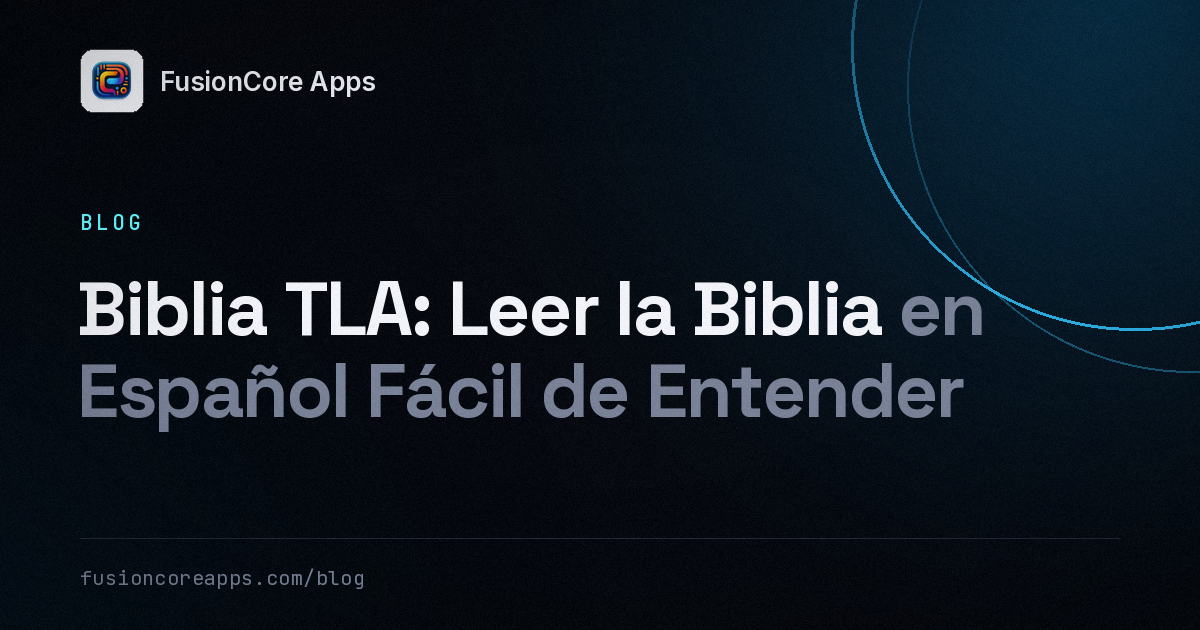
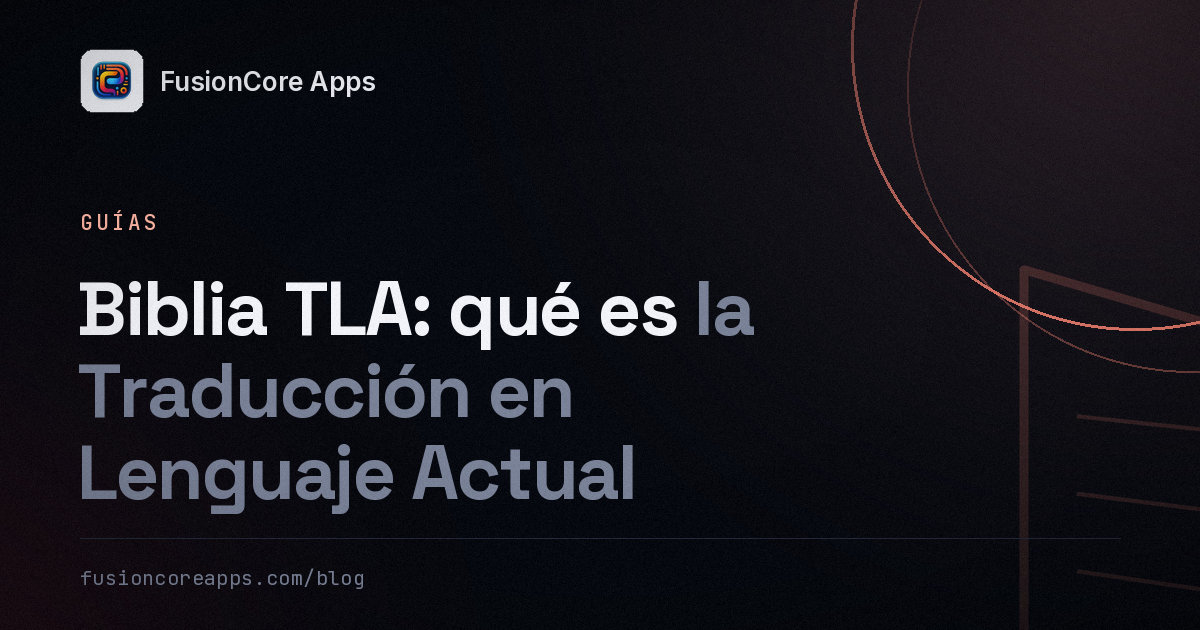
feat(blog): add how-to-start-reading-the-bible guide and refresh Biblia TLA guide

diff --git a/src/content/blog/es/biblia-tla-espanol-facil-guia.md b/src/content/blog/es/biblia-tla-espanol-facil-guia.md
@@ -1,43 +1,121 @@
 ---
-title: "Biblia TLA: Leer la Biblia en Español Fácil de Entender"
-description: "La Biblia TLA (Traducción en Lenguaje Actual) hace que leer las Escrituras sea accesible para todos. Descubre por qué es perfecta para nuevos lectores."
+title: "Biblia TLA: qué es la Traducción en Lenguaje Actual"
+description: "Qué es la Biblia TLA, quién la tradujo y para quién es, con versículos comparados con la Reina-Valera 1960 y una tabla frente a la NTV, DHH y NVI."
 publishedAt: "2026-03-01"
+updatedAt: "2026-10-16"
 author: "FusionCore Apps"
-tags: ["biblia", "español", "apps", "android"]
-image: "/images/blog/biblia-tla-espanol-facil-guia.png"
+tags: ["biblia", "biblia tla", "español", "leer la biblia", "versiones de la biblia"]
+image: "/images/blog/es/biblia-tla-espanol-facil-guia/cover.webp"
 ogImage: "/images/blog/es/biblia-tla-espanol-facil-guia.png"
 featured: false
+faq:
+  - question: "¿Qué significa TLA en la Biblia?"
+    answer: "TLA son las siglas de Traducción en Lenguaje Actual, una versión de la Biblia en español publicada por las Sociedades Bíblicas Unidas. Está escrita con palabras de uso diario y frases cortas para que cualquier persona la entienda a la primera."
+  - question: "¿La Biblia TLA es confiable?"
+    answer: "Sí. Se tradujo directamente de los idiomas originales (hebreo, arameo y griego) y la publican las Sociedades Bíblicas Unidas, que también publican la Reina-Valera 1960. Es una traducción por equivalencia dinámica: busca transmitir el sentido de cada pasaje más que la palabra exacta, por eso para un estudio detallado conviene compararla con una versión más literal."
+  - question: "¿Cuál es la diferencia entre la TLA y la Reina-Valera 1960?"
+    answer: "La Reina-Valera 1960 es una traducción formal, cercana a la palabra por palabra, con vocabulario tradicional como «bienaventurados» o «vosotros». La TLA dice lo mismo con palabras de hoy: donde la Reina-Valera dice «Bienaventurados los mansos», la TLA dice «Dios bendice a los humildes»."
+  - question: "¿La Biblia TLA sirve para estudiar?"
+    answer: "Sirve para entender el sentido general de un libro o de un pasaje, y es muy buena para devocionales y para leer en grupo. Para estudiar palabras concretas o preparar una enseñanza, úsala junto a una versión literal como la Reina-Valera 1960 o la NBLA."
+  - question: "¿Dónde puedo leer la Biblia TLA gratis?"
+    answer: "En el celular puedes usar Biblia TLA en Español Fácil, una app gratuita para Android con la TLA completa, audio y lectura sin internet. También está disponible en varios sitios de Biblias en línea."
 ---
 
-## ¿Qué es la Traducción en Lenguaje Actual?
+La **Biblia TLA** (Traducción en Lenguaje Actual) es una versión de la Biblia en español publicada por las **Sociedades Bíblicas Unidas** y escrita con **palabras de todos los días, frases cortas y sin términos antiguos**. Empezó como una Biblia para niños y hoy la leen adultos que se pierden con la Reina-Valera, jóvenes y personas que abren la Biblia por primera vez.
+
+**En esta guía:**
+
+- [Qué es la Traducción en Lenguaje Actual](#qué-es-la-traducción-en-lenguaje-actual)
+- [Cómo se tradujo: escrita para leerse en voz alta](#cómo-se-tradujo-escrita-para-leerse-en-voz-alta)
+- [La TLA frente a la Reina-Valera 1960, con ejemplos](#la-tla-frente-a-la-reina-valera-1960)
+- [TLA, NTV, DHH, NVI, RVR1960 o NBLA: cuál elegir](#tla-ntv-dhh-nvi-rvr1960-o-nbla-cuál-elegir)
+- [Ventajas y límites de la TLA](#ventajas-y-límites-de-la-tla)
+- [Cómo leer la Biblia TLA en el celular](#la-app-biblia-tla-para-android)
+
+## Qué es la Traducción en Lenguaje Actual
 
 La Traducción en Lenguaje Actual (TLA) es una versión de la Biblia escrita en español claro, sencillo y contemporáneo. A diferencia de traducciones más tradicionales como la Reina-Valera, que utiliza un lenguaje formal y en ocasiones arcaico, la TLA fue diseñada para que cualquier persona pueda entender el mensaje bíblico sin necesidad de un diccionario teológico.
 
-Esta traducción es especialmente valiosa para tres grupos de lectores: personas que se acercan a la Biblia por primera vez, jóvenes que buscan una conexión más directa con el texto, y hablantes nativos de español que prefieren un lenguaje cotidiano y accesible.
+El proyecto nació como una Biblia para lectores de entre 9 y 11 años. Según Edesio Sánchez, consultor de traducción de las Sociedades Bíblicas Unidas, el equipo la pensó como **«una Biblia para niños y no una Biblia de niños»**: no simplifica el mensaje, sino la forma de decirlo. También tuvo en cuenta a adultos que leen poco y a comunidades indígenas que hablan el español como segunda lengua.
 
-## ¿Por Qué Elegir la TLA Sobre Otras Traducciones?
+Por eso es especialmente valiosa para tres grupos de lectores: personas que se acercan a la Biblia por primera vez, jóvenes que buscan una conexión más directa con el texto, y hablantes de español que prefieren un lenguaje cotidiano y accesible.
 
-Cada traducción de la Biblia tiene su propósito. Las traducciones literales como la Reina-Valera 1960 son excelentes para el estudio detallado del texto original. Sin embargo, su vocabulario puede resultar difícil para lectores que no están familiarizados con términos religiosos tradicionales.
+## Cómo se tradujo: escrita para leerse en voz alta
 
-La TLA resuelve este problema al expresar las mismas ideas bíblicas usando palabras y frases que usamos en la vida diaria. No simplifica el contenido ni elimina conceptos importantes. Lo que hace es presentar ese contenido de una manera que fluye naturalmente en español moderno.
+La TLA se tradujo directamente del hebreo, el arameo y el griego. Lo que la distingue es que se escribió pensando en **quien la escucha**, no solo en quien la lee: el objetivo era un texto que se entendiera al leerse en voz alta en una iglesia, en familia o en un grupo. Eso se nota en varias decisiones:
 
-Por ejemplo, donde una traducción tradicional podría decir "bienaventurados los mansos," la TLA expresa la misma idea de forma que un lector contemporáneo la entiende inmediatamente, sin perder la profundidad del mensaje original.
+- **Frases cortas.** Los pasajes que en la Reina-Valera son una sola oración larga, como el saludo de Romanos 1:1–7, en la TLA se dividen en varias.
+- **Quién hace qué, siempre claro.** Si un pronombre puede confundir, la TLA nombra a la persona.
+- **Los hechos en orden.** Cuando el texto original cuenta algo fuera de secuencia, la TLA lo ordena para que se siga sin perderse.
+- **Verbos concretos** en lugar de sustantivos abstractos.
+- **El sentido no depende de una coma.** Como al escuchar no se ven los signos de puntuación, la frase se arma para que una pausa mal hecha no cambie el significado.
 
-## La App Biblia TLA para Android
+Estas pautas están explicadas en el artículo de Edesio Sánchez sobre la TLA ([PDF](https://www.bskorea.or.kr/data/pdf/20-%EB%B3%84-01%20The%20TLA%20%28Contemporary%20Spanish%20Version%29%20%28Edesio%20S%C3%A1nchez%29%20n%20doi.pdf)).
 
-Nuestra aplicación Biblia TLA fue creada pensando en la experiencia de lectura diaria. Estas son las características principales:
+## La TLA frente a la Reina-Valera 1960
 
-**Lectura sin distracciones**: La interfaz es limpia y minimalista. No hay anuncios, ventanas emergentes ni elementos que interrumpan tu momento de lectura. Abres la app, eliges un capítulo y comienzas a leer.
+Cada traducción de la Biblia tiene su propósito. Las traducciones literales como la Reina-Valera 1960 son excelentes para el estudio detallado del texto. Sin embargo, su vocabulario puede resultar difícil para lectores que no están familiarizados con términos religiosos tradicionales.
 
-**Modo oscuro**: Para quienes prefieren leer de noche o en ambientes con poca luz, el modo oscuro reduce la fatiga visual y hace que la lectura sea más cómoda durante períodos prolongados.
+La mejor forma de ver la diferencia es leer el mismo pasaje en las dos. Estas son cuatro de las bienaventuranzas (Mateo 5):
 
-**Funciona sin internet**: Todo el texto bíblico se almacena directamente en tu dispositivo. Puedes leer en el metro, en un avión o en cualquier lugar sin preocuparte por la conexión a internet.
+| Reina-Valera 1960 | Traducción en Lenguaje Actual |
+| --- | --- |
+| **5:3** «Bienaventurados los pobres en espíritu, porque de ellos es el reino de los cielos». | «Dios bendice a los que confían totalmente en él, pues ellos forman parte de su reino». |
+| **5:5** «Bienaventurados los mansos, porque ellos recibirán la tierra por heredad». | «Dios bendice a los humildes, pues ellos recibirán la tierra prometida». |
+| **5:6** «Bienaventurados los que tienen hambre y sed de justicia, porque ellos serán saciados». | «Dios bendice a los que desean la justicia, pues él les cumplirá su deseo». |
+| **5:9** «Bienaventurados los pacificadores, porque ellos serán llamados hijos de Dios». | «Dios bendice a los que trabajan para que haya paz en el mundo, pues ellos serán llamados hijos de Dios». |
 
-**Búsqueda rápida**: Encuentra cualquier versículo, palabra o frase en segundos. La función de búsqueda te permite explorar temas específicos y descubrir pasajes relacionados sin esfuerzo.
+Las dos dicen lo mismo. La diferencia es que la TLA **explica las palabras que hoy casi nadie usa**: «bienaventurados» se vuelve «Dios bendice», «pobres en espíritu» se vuelve «los que confían totalmente en él» y «pacificadores» se vuelve «los que trabajan para que haya paz». No simplifica el contenido ni elimina conceptos importantes; lo presenta de una manera que fluye en el español de hoy.
 
-**Marcadores y notas**: Guarda los versículos que más te impactan y agrega tus propias reflexiones. Con el tiempo, construyes una colección personal de pasajes significativos.
+En nuestra [guía para empezar a leer la Biblia](/es/blog/como-empezar-a-leer-la-biblia) comparamos también Juan 3:16, donde la TLA evita la palabra «unigénito».
 
-## Cómo Crear un Hábito de Lectura Bíblica
+## TLA, NTV, DHH, NVI, RVR1960 o NBLA: cuál elegir
+
+Ninguna versión es «la correcta» para todo. La diferencia está en cuánto se acercan a la palabra exacta del original y cuánto priorizan que se entienda el sentido.
+
+| Versión | Tipo de traducción | Lenguaje | Ideal para |
+| --- | --- | --- | --- |
+| **TLA** (Traducción en Lenguaje Actual) | Dinámica: sentido por sentido | El más sencillo | Primeros lectores, niños, devocionales, leer en voz alta |
+| **DHH** (Dios Habla Hoy) | Dinámica | Popular | Lectura general |
+| **NTV** (Nueva Traducción Viviente) | Dinámica | Fluido y actual | Leer libros completos de corrido |
+| **NVI** (Nueva Versión Internacional) | Equilibrio entre literal y dinámica | Actual | Lectura y estudio |
+| **RVR1960** (Reina-Valera 1960) | Formal: palabra por palabra | Tradicional | Estudio, memorización, muchas iglesias evangélicas |
+| **NBLA** (Nueva Biblia de las Américas) | Formal | Moderno | Estudio detallado |
+
+Si tu prioridad es **entender a la primera**, la TLA es la más fácil de las seis. Una combinación que funciona para mucha gente: **la TLA para el devocional diario** y **una versión literal (RVR1960 o NBLA) para estudiar** o seguir la predicación en la iglesia.
+
+¿Llegaste buscando la Biblia TPT (The Passion Translation) en español? Te explicamos [si existe y qué versiones en español tienen un estilo parecido](/es/blog/biblia-tpt-en-espanol).
+
+## Ventajas y límites de la TLA
+
+**Ventajas**
+
+- Se entiende a la primera, incluso si nunca has leído la Biblia.
+- Funciona muy bien leída en voz alta: en familia, con niños o en un grupo.
+- Ayuda a captar la idea de un libro completo sin detenerse en cada palabra.
+
+**Límites**
+
+- Al priorizar el sentido, a veces **explica en lugar de traducir palabra por palabra**. Para estudiar un término concreto, compárala con una versión literal.
+- Muchas iglesias predican con la Reina-Valera 1960, así que puede que el texto que escuchas el domingo no coincida palabra por palabra con el que lees.
+
+## La app Biblia TLA para Android
+
+Creamos [Biblia TLA en Español Fácil](/es/apps/biblia-tla) pensando en la lectura diaria. Estas son sus características principales:
+
+![Pantallas de la app Biblia TLA: lista de libros con la lectura actual y Juan 3 en la Traducción en Lenguaje Actual](/images/blog/es/biblia-tla-espanol-facil-guia/libros-y-lectura.webp)
+
+- **La TLA completa, sin internet.** Todo el texto se guarda en tu teléfono: puedes leer en el metro, en un avión o donde no haya señal.
+- **Audio Biblia** con control de velocidad, para escuchar mientras manejas, caminas o descansas.
+- **Planes de lectura de 14 días** que descargas y sigues día por día.
+- **Versículo del día** como punto de partida para tu lectura.
+- **Resaltados y favoritos** para guardar los versículos que más te impactan.
+- **Modo oscuro, tamaño y tipo de letra** para leer cómodo de día o de noche.
+- **Búsqueda rápida** y navegación por libro y capítulo.
+
+La app es gratis y se sostiene con anuncios. Si prefieres leer sin ellos, puedes pasarte a Premium desde la app. Tiene más de 5.000 descargas y una calificación de 4.7 en Google Play.
+
+## Cómo crear un hábito de lectura bíblica
 
 Tener la app instalada es solo el primer paso. Estos consejos te ayudarán a mantener una práctica constante:
 
@@ -46,12 +124,34 @@ Tener la app instalada es solo el primer paso. Estos consejos te ayudarán a man
 3. **Usa el versículo del día**: La app ofrece un versículo diario que sirve como punto de partida. Léelo, reflexiona sobre su significado y deja que guíe tu lectura del día.
 4. **No te presiones**: La lectura bíblica no es una competencia. Avanza a tu propio ritmo y permite que cada pasaje tenga el tiempo que necesita.
 
+Si no sabes por dónde empezar, sigue nuestro [plan de 14 días para empezar a leer la Biblia](/es/blog/como-empezar-a-leer-la-biblia): empieza por el Evangelio de Marcos y termina con un recorrido por Génesis, Salmos, Proverbios, Hechos y 1 Juan.
+
+## Preguntas frecuentes
+
+### ¿Qué significa TLA en la Biblia?
+
+TLA son las siglas de Traducción en Lenguaje Actual, una versión de la Biblia en español publicada por las Sociedades Bíblicas Unidas. Está escrita con palabras de uso diario y frases cortas para que cualquier persona la entienda a la primera.
+
+### ¿La Biblia TLA es confiable?
+
+Sí. Se tradujo directamente de los idiomas originales (hebreo, arameo y griego) y la publican las Sociedades Bíblicas Unidas, que también publican la Reina-Valera 1960. Es una traducción por equivalencia dinámica: busca transmitir el sentido de cada pasaje más que la palabra exacta, por eso para un estudio detallado conviene compararla con una versión más literal.
+
+### ¿Cuál es la diferencia entre la TLA y la Reina-Valera 1960?
+
+La Reina-Valera 1960 es una traducción formal, cercana a la palabra por palabra, con vocabulario tradicional como «bienaventurados» o «vosotros». La TLA dice lo mismo con palabras de hoy: donde la Reina-Valera dice «Bienaventurados los mansos», la TLA dice «Dios bendice a los humildes».
+
+### ¿La Biblia TLA sirve para estudiar?
+
+Sirve para entender el sentido general de un libro o de un pasaje, y es muy buena para devocionales y para leer en grupo. Para estudiar palabras concretas o preparar una enseñanza, úsala junto a una versión literal como la Reina-Valera 1960 o la NBLA.
+
+### ¿Dónde puedo leer la Biblia TLA gratis?
+
+En el celular puedes usar Biblia TLA en Español Fácil, una app gratuita para Android con la TLA completa, audio y lectura sin internet. También está disponible en varios sitios de Biblias en línea.
+
 ## Conclusión
 
 La Biblia TLA elimina la barrera del lenguaje complicado y hace que las Escrituras sean accesibles para todos los hispanohablantes. Combinada con una app diseñada para la simplicidad y la comodidad, leer la Biblia se convierte en una experiencia agradable y enriquecedora.
 
-¿Llegaste buscando la Biblia TPT (The Passion Translation) en español? Te explicamos [si existe y qué versiones en español tienen un estilo parecido](/es/blog/biblia-tpt-en-espanol).
-
 No importa si es tu primera vez abriendo una Biblia o si llevas años leyendo: la TLA te ofrece una perspectiva fresca y clara del texto que ha inspirado a la humanidad durante siglos.
 
-[Descarga Biblia TLA gratis para Android →](/apps/biblia-tla)
+[Descarga Biblia TLA gratis para Android →](/es/apps/biblia-tla)

diff --git a/src/content/blog/es/como-empezar-a-leer-la-biblia.md b/src/content/blog/es/como-empezar-a-leer-la-biblia.md
@@ -1,0 +1,162 @@
+---
+title: "Cómo empezar a leer la Biblia: guía y plan de 14 días"
+description: "¿Nunca has leído la Biblia? Por dónde empezar, qué versión elegir para entenderla y un plan de 14 días, unos minutos al día, para crear el hábito."
+translationKey: "how-to-start-reading-the-bible"
+publishedAt: "2026-10-16"
+author: "FusionCore Apps"
+tags: ["biblia", "leer la biblia", "plan de lectura", "biblia tla", "español"]
+image: "/images/blog/es/como-empezar-a-leer-la-biblia/cover.webp"
+ogImage: "/images/blog/es/como-empezar-a-leer-la-biblia.png"
+featured: false
+faq:
+  - question: "¿Por dónde empiezo a leer la Biblia?"
+    answer: "Empieza por un Evangelio, no por Génesis. El Evangelio de Marcos es el más corto (16 capítulos) y cuenta la vida de Jesús de forma directa; el de Juan también es una buena puerta de entrada. Después puedes pasar a Génesis, los Salmos y las cartas del Nuevo Testamento."
+  - question: "¿Qué Biblia es mejor para principiantes?"
+    answer: "Una que entiendas al leerla. Las versiones en lenguaje actual, como la Traducción en Lenguaje Actual (TLA), la Nueva Traducción Viviente (NTV) o Dios Habla Hoy (DHH), usan palabras de todos los días. Más adelante puedes compararlas con una versión más literal, como la Reina-Valera 1960."
+  - question: "¿Cuánto tiempo debo leer la Biblia al día?"
+    answer: "Para empezar, entre 10 y 15 minutos al día bastan: uno o dos capítulos. Es mejor leer poco todos los días que mucho una vez a la semana."
+  - question: "¿Qué hago si no entiendo lo que leo en la Biblia?"
+    answer: "Lee el capítulo anterior para tener contexto, compara el pasaje con otra versión, escúchalo en audio y anota tu pregunta para consultarla con alguien de tu iglesia o grupo. No te detengas: muchas dudas se aclaran al seguir leyendo."
+  - question: "¿Está bien leer la Biblia en el celular?"
+    answer: "Sí. Una app te permite leer en cualquier momento, cambiar el tamaño de la letra, guardar versículos y escuchar la Biblia en audio. Lo importante es leer con calma, no el formato."
+---
+
+Si nunca has leído la Biblia, **no empieces por la primera página**. Empieza por el **Evangelio de Marcos**, que es corto y cuenta la vida de Jesús de forma directa, léelo en una **versión que entiendas** y dale **10 a 15 minutos al día** durante dos semanas. Abajo tienes un plan de 14 días listo para seguir.
+
+Mucha gente abre la Biblia con ganas, empieza en Génesis y se pierde en Levítico. No es falta de interés: es que la Biblia no es un libro para leerse de corrido, sino una biblioteca de 66 libros (73 en las Biblias católicas) con historias, poesía, leyes, cartas y profecías.
+
+**En esta guía vas a aprender:**
+
+- [Cómo está organizada la Biblia](#cómo-está-organizada-la-biblia)
+- [Por dónde empezar a leer la Biblia](#por-dónde-empezar-a-leer-la-biblia)
+- [Qué versión elegir para entenderla](#qué-versión-elegir-para-entenderla)
+- [Un plan de 14 días para empezar](#plan-de-14-días-para-empezar)
+- [Qué hacer cuando no entiendes un pasaje](#qué-hacer-cuando-no-entiendes-un-pasaje)
+
+Úsala como tu guía de las próximas dos semanas.
+
+## Cómo está organizada la Biblia
+
+La Biblia se divide en dos grandes partes:
+
+- **Antiguo Testamento:** 39 libros en las Biblias evangélicas (46 en las católicas). Cuenta la historia del pueblo de Israel e incluye leyes, historia, poesía como los Salmos, sabiduría como Proverbios y los profetas.
+- **Nuevo Testamento:** 27 libros. Empieza con los cuatro Evangelios (Mateo, Marcos, Lucas y Juan), que cuentan la vida de Jesús; sigue con Hechos, que cuenta cómo nació la iglesia, y termina con cartas y el Apocalipsis.
+
+Cuando veas una cita como **Juan 3:16**, se lee así: libro de **Juan**, capítulo **3**, versículo **16**. En una app solo eliges el libro, el capítulo y bajas hasta el versículo.
+
+## Por dónde empezar a leer la Biblia
+
+Empieza por **un Evangelio**. Todo en la Biblia gira alrededor de Jesús, así que conocer su historia primero te da el mapa para entender el resto.
+
+- **Marcos** es el más corto (16 capítulos) y va al grano: lo puedes terminar en una semana y media.
+- **Juan** es más reflexivo y es el favorito de muchos para un segundo paso.
+
+Después de un Evangelio, conviene asomarse a otros tipos de libro: **Génesis** (el principio), **Salmos** (oraciones), **Proverbios** (consejos prácticos), **Hechos** (la iglesia primitiva) y alguna **carta** corta. Es justo lo que hace el plan de abajo.
+
+Lo que conviene dejar para más adelante: Levítico, Números y los profetas largos. No son menos importantes, pero se entienden mucho mejor cuando ya conoces la historia general.
+
+## Qué versión elegir para entenderla
+
+La mejor Biblia para empezar es la que **entiendes al leerla**. Compara el mismo versículo en dos versiones:
+
+> **Reina-Valera 1960:** «Porque de tal manera amó Dios al mundo, que ha dado a su Hijo unigénito, para que todo aquel que en él cree, no se pierda, mas tenga vida eterna».
+>
+> **Traducción en Lenguaje Actual (TLA):** «Dios amó tanto a la gente de este mundo, que me entregó a mí, que soy su único Hijo, para que todo el que crea en mí no muera, sino que tenga vida eterna».
+
+Las dos dicen lo mismo. La segunda usa palabras de todos los días: no tienes que saber qué significa «unigénito».
+
+| Versión | Estilo | Para qué sirve más |
+| --- | --- | --- |
+| **TLA** (Traducción en Lenguaje Actual) | Español muy sencillo, frases cortas | Empezar, leer en voz alta, niños y jóvenes |
+| **NTV** (Nueva Traducción Viviente) | Fluida, pensamiento por pensamiento | Lectura diaria y continua |
+| **DHH** (Dios Habla Hoy) | Lenguaje popular | Lectura general |
+| **RVR1960** (Reina-Valera 1960) | Tradicional y formal | Estudio, memorización, muchas iglesias evangélicas |
+| **NBLA** (Nueva Biblia de las Américas) | Literal y moderna | Estudio detallado |
+
+La TLA la publicaron las Sociedades Bíblicas Unidas. Empezó como una Biblia para niños, pensó también en adultos que leen poco y está escrita para entenderse al leerse en voz alta: frases cortas y sin palabras rebuscadas. Por eso funciona tan bien para empezar. Si te interesa compararla a fondo, lee nuestra [guía de la Biblia TLA](/es/blog/biblia-tla-espanol-facil-guia).
+
+## Plan de 14 días para empezar
+
+Uno o dos capítulos al día, unos 10 a 15 minutos. La primera semana y media recorres la vida de Jesús; los últimos días conoces otros tipos de libro.
+
+| Día | Lectura | De qué trata |
+| --- | --- | --- |
+| 1 | Marcos 1 | Jesús empieza su misión |
+| 2 | Marcos 2–3 | Sana, enseña y elige a sus discípulos |
+| 3 | Marcos 4–5 | Parábolas y milagros |
+| 4 | Marcos 6–7 | Alimenta a miles y habla de lo que hay en el corazón |
+| 5 | Marcos 8–9 | Pedro reconoce quién es Jesús |
+| 6 | Marcos 10–11 | El camino hacia Jerusalén |
+| 7 | Marcos 12–13 | El mandamiento más importante |
+| 8 | Marcos 14 | La última cena |
+| 9 | Marcos 15–16 | La cruz y la resurrección |
+| 10 | Génesis 1–3 | El principio de todo |
+| 11 | Salmos 23 y 139 | Oraciones honestas |
+| 12 | Proverbios 3 | Sabiduría para el día a día |
+| 13 | Hechos 1–2 | Nace la iglesia |
+| 14 | 1 Juan 4 | «Dios es amor» |
+
+Si un día no puedes, no pasa nada: retoma donde te quedaste. El objetivo no es cumplir fechas, es crear el hábito.
+
+### Cómo leer cada día
+
+1. **Haz una pausa.** Un minuto de silencio u oración antes de empezar.
+2. **Lee todo el pasaje una vez**, sin detenerte en lo que no entiendas.
+3. **Hazte tres preguntas:** ¿qué pasa aquí?, ¿qué me dice de Dios?, ¿qué tiene que ver conmigo?
+4. **Guarda un versículo** que te haya llamado la atención.
+5. **Llévalo contigo** durante el día: léelo otra vez antes de dormir.
+
+## Qué hacer cuando no entiendes un pasaje
+
+Te va a pasar, y es normal. Prueba esto, en este orden:
+
+- **Lee el capítulo anterior.** Muchas frases se entienden con el contexto.
+- **Compara con otra versión.** Si una frase de la Reina-Valera no se entiende, léela en la TLA o la NTV.
+- **Escúchalo.** Oír el texto en voz alta ayuda a captar el tono, sobre todo en los Salmos y las cartas.
+- **Anota la pregunta** y consúltala con alguien de tu iglesia o grupo.
+- **Sigue leyendo.** Muchas dudas se aclaran unos capítulos después.
+
+## Leer (y escuchar) la Biblia en el celular
+
+Si prefieres leer en el teléfono, creamos [Biblia TLA en Español Fácil](/es/apps/biblia-tla), una app gratuita para Android con la Traducción en Lenguaje Actual completa. Tiene lo que un plan como este necesita:
+
+![Pantallas de la app Biblia TLA: lista de planes de lectura de 14 días, con Aliento de Profetas y Evangelios descargado, y el detalle del plan día por día](/images/blog/es/como-empezar-a-leer-la-biblia/planes-de-lectura.webp)
+
+- **Planes de lectura de 14 días** para seguir después de este, como *Aliento de Profetas y Evangelios* o *Almas y Versículos*. Los descargas una vez y los lees día por día.
+- **Audio Biblia** con control de velocidad, para escuchar cuando vas en el bus o haces otra cosa.
+- **Sin internet:** el texto vive en tu teléfono.
+- **Letra ajustable, modo oscuro, búsqueda y favoritos** para guardar los versículos de cada día.
+
+![Juan 3:16 en la Traducción en Lenguaje Actual dentro de la app Biblia TLA, y el reproductor de audio leyendo el mismo pasaje](/images/blog/es/como-empezar-a-leer-la-biblia/lectura-y-audio.webp)
+
+La app es gratis y se sostiene con anuncios; si prefieres leer sin ellos, puedes pasarte a Premium desde la app. Tiene más de 5.000 descargas y una calificación de 4.7 en Google Play.
+
+¿Buscabas la Biblia TPT (The Passion Translation) en español? Te explicamos [si existe y qué versiones tienen un estilo parecido](/es/blog/biblia-tpt-en-espanol).
+
+## Preguntas frecuentes
+
+### ¿Por dónde empiezo a leer la Biblia?
+
+Empieza por un Evangelio, no por Génesis. El Evangelio de Marcos es el más corto (16 capítulos) y cuenta la vida de Jesús de forma directa; el de Juan también es una buena puerta de entrada. Después puedes pasar a Génesis, los Salmos y las cartas del Nuevo Testamento.
+
+### ¿Qué Biblia es mejor para principiantes?
+
+Una que entiendas al leerla. Las versiones en lenguaje actual, como la Traducción en Lenguaje Actual (TLA), la Nueva Traducción Viviente (NTV) o Dios Habla Hoy (DHH), usan palabras de todos los días. Más adelante puedes compararlas con una versión más literal, como la Reina-Valera 1960.
+
+### ¿Cuánto tiempo debo leer la Biblia al día?
+
+Para empezar, entre 10 y 15 minutos al día bastan: uno o dos capítulos. Es mejor leer poco todos los días que mucho una vez a la semana.
+
+### ¿Qué hago si no entiendo lo que leo en la Biblia?
+
+Lee el capítulo anterior para tener contexto, compara el pasaje con otra versión, escúchalo en audio y anota tu pregunta para consultarla con alguien de tu iglesia o grupo. No te detengas: muchas dudas se aclaran al seguir leyendo.
+
+### ¿Está bien leer la Biblia en el celular?
+
+Sí. Una app te permite leer en cualquier momento, cambiar el tamaño de la letra, guardar versículos y escuchar la Biblia en audio. Lo importante es leer con calma, no el formato.
+
+## Empieza hoy
+
+Abre Marcos 1, lee con calma y vuelve mañana. En dos semanas habrás recorrido la vida de Jesús y tendrás un hábito que vale la pena cuidar.
+
+[Descarga Biblia TLA gratis para Android →](/es/apps/biblia-tla)

diff --git a/src/content/blog/es/biblia-tpt-en-espanol.md b/src/content/blog/es/biblia-tpt-en-espanol.md
@@ -55,7 +55,7 @@ Una buena combinación es la misma que recomendamos para la TPT: **una versión 
 
 ## Lee la Biblia TLA en tu celular
 
-Si la TLA es lo que buscas, creamos **[Biblia TLA en Español Fácil](/es/apps/biblia-tla)**, una app gratuita para Android con la Traducción en Lenguaje Actual completa, **audio Biblia integrado**, **acceso 100% sin conexión**, versículos diarios y planes de lectura semanales. Si quieres conocer mejor esta versión, lee [Biblia TLA: leer la Biblia en español fácil de entender](/es/blog/biblia-tla-espanol-facil-guia).
+Si la TLA es lo que buscas, creamos **[Biblia TLA en Español Fácil](/es/apps/biblia-tla)**, una app gratuita para Android con la Traducción en Lenguaje Actual completa, **audio Biblia integrado**, **acceso 100% sin conexión**, versículos diarios y planes de lectura semanales. Si quieres conocer mejor esta versión, lee [qué es la Biblia TLA y cómo se compara con la Reina-Valera](/es/blog/biblia-tla-espanol-facil-guia). Y si nunca has leído la Biblia, empieza con nuestra [guía y plan de 14 días](/es/blog/como-empezar-a-leer-la-biblia).
 
 ## Preguntas frecuentes
 
